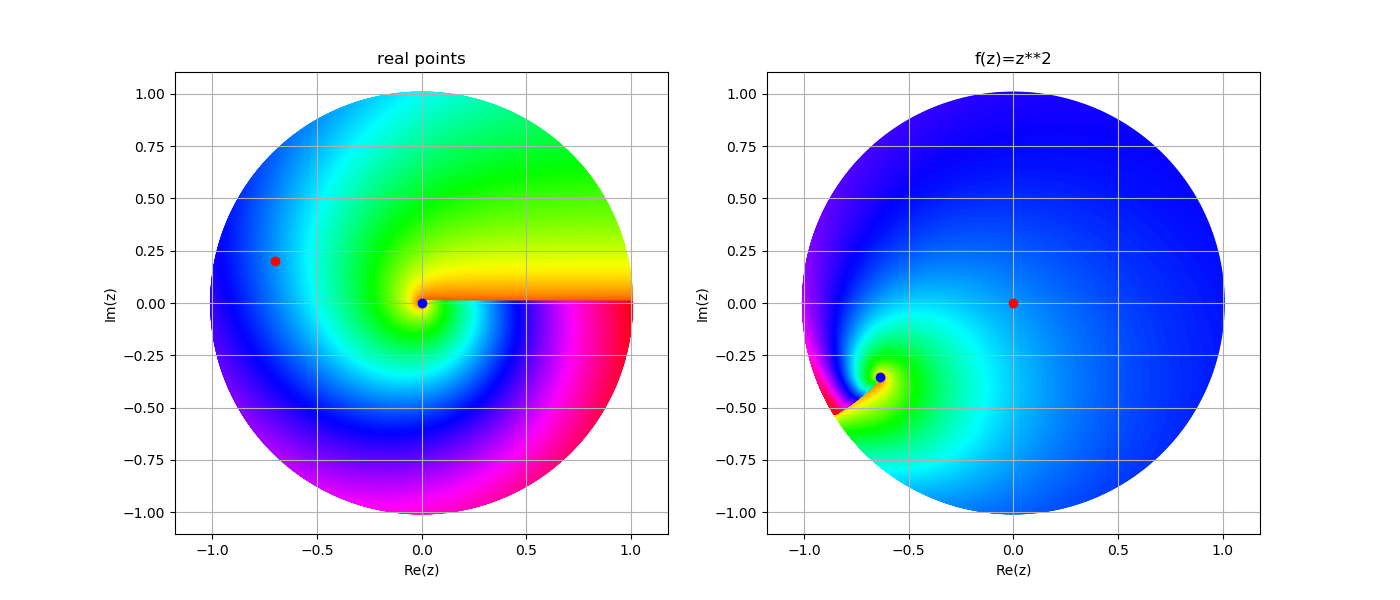
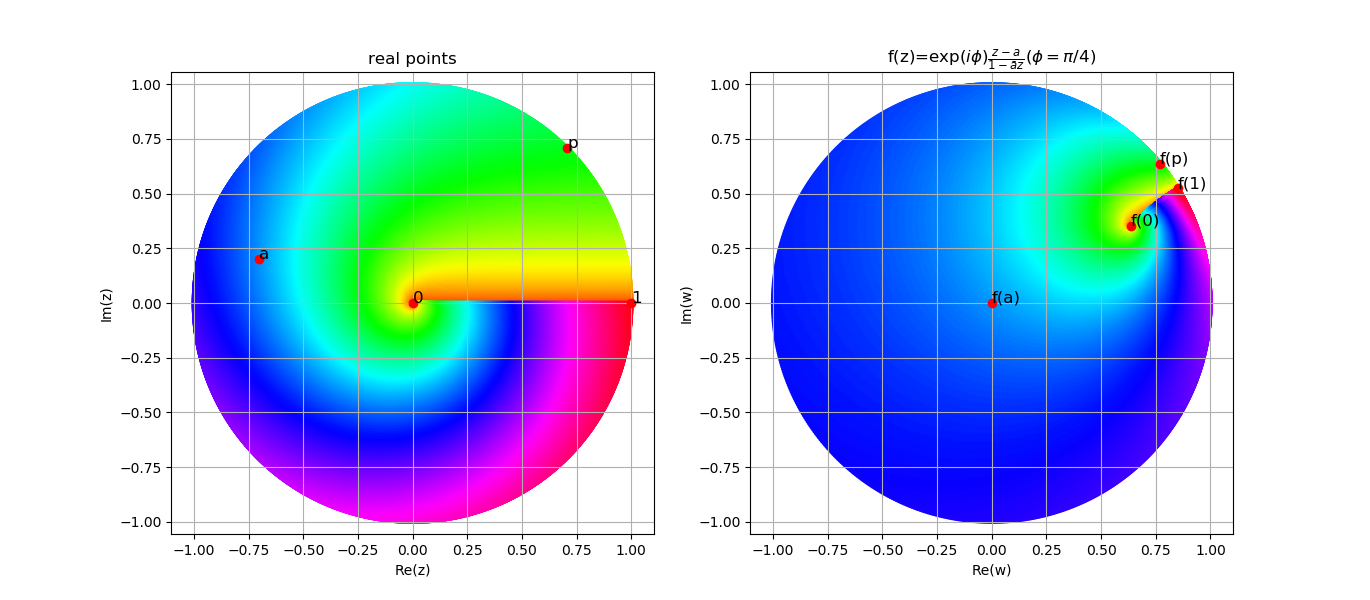
update

diff --git a/non-euclidean/automorphism.py b/non-euclidean/automorphism.py
@@ -3,13 +3,16 @@ import numpy as np
 
 
 def f(z):
-    return np.exp(1j * theta) * (z - a) / (np.conjugate(a) * z - 1)
+    return np.exp(1j * phi) * (z - a) / (1 - np.conjugate(a) * z)
 
 
 a = -0.7 + 0.2 * 1j
-theta = np.pi / 4
+phi = np.pi / 4
+p = np.exp(1j * phi)
 fa = f(a)
 f0 = f(0)
+fp = f(p)
+f1 = f(1)
 
 u = np.linspace(0, 1.0, 500)
 v = np.linspace(0, 2 * np.pi, 3600)
@@ -17,7 +20,7 @@ uu, vv = np.meshgrid(u, v)
 z = uu * np.exp(1j * vv)
 w = f(z)
 # T = np.arctan2(uu, vv)
-T = np.sqrt(uu*vv)
+T = np.sqrt(uu * vv)
 
 plt.figure(figsize=(14, 6))
 plt.subplot(1, 2, 1)
@@ -28,16 +31,28 @@ plt.axis('equal')
 plt.xlabel('Re(z)')
 plt.ylabel('Im(z)')
 plt.plot([np.real(a)], [np.imag(a)], 'ro')
-plt.plot([0], [0], 'bo')
+plt.text(np.real(a), np.imag(a), 'a', fontsize=12)
+plt.plot([np.real(p)], [np.imag(p)], 'ro')
+plt.text(np.real(p), np.imag(p), 'p', fontsize=12)
+plt.plot([0], [0], 'ro')
+plt.text(0, 0, '0', fontsize=12)
+plt.plot([1], [0], 'ro')
+plt.text(1, 0, '1', fontsize=12)
 
 plt.subplot(1, 2, 2)
 plt.scatter(np.real(w), np.imag(w), c=T, s=10, lw=0, cmap='hsv')
-plt.title('f(z)=z**2')
+plt.title(r'f(z)=$\exp(i \phi)\frac{z-a}{1-\bar a z} (\phi=\pi / 4$)')
 plt.grid(True)
 plt.axis('equal')
-plt.xlabel('Re(z)')
-plt.ylabel('Im(z)')
+plt.xlabel('Re(w)')
+plt.ylabel('Im(w)')
 plt.plot([np.real(fa)], [np.imag(fa)], 'ro')
-plt.plot([np.real(f0)], [np.imag(f0)], 'bo')
+plt.text(np.real(fa), np.imag(fa), 'f(a)', fontsize=12)
+plt.plot([np.real(fp)], [np.imag(fp)], 'ro')
+plt.text(np.real(fp), np.imag(fp), 'f(p)', fontsize=12)
+plt.plot([np.real(f0)], [np.imag(f0)], 'ro')
+plt.text(np.real(f0), np.imag(f0), 'f(0)', fontsize=12)
+plt.plot([np.real(f1)], [np.imag(f1)], 'ro')
+plt.text(np.real(f1), np.imag(f1), 'f(1)', fontsize=12)
 
 plt.show()

diff --git a/README.md b/README.md
@@ -9,7 +9,7 @@
 ![image](https://github.com/foamliu/Complex-Analysis/raw/master/images/winding_number_4.png)
 ![image](https://github.com/foamliu/Complex-Analysis/raw/master/images/winding_number_3.png)
 
-## automorphism
+## Automorphisms in unit disk
 
 ![image](https://github.com/foamliu/Complex-Analysis/raw/master/images/automorphism.png)
 
